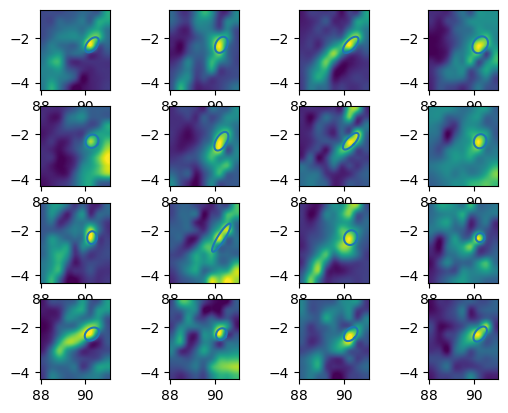
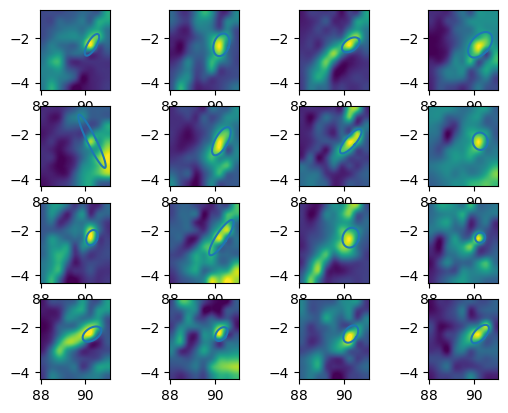
Smaller images

diff --git a/conditional_events.py b/conditional_events.py
@@ -156,7 +156,7 @@ for i in range(16):
     axe = ax[int(i / 4)][i % 4]
     e = events[i]
     lx, ly, theta = fit_ellipse(
-        e.sel(time=0), R, Z, size_penalty_factor=0, aspect_ratio_penalty_factor=0
+        e.sel(time=0), R, Z, size_penalty_factor=5, aspect_ratio_penalty_factor=1
     )
     im = axe.imshow(e.sel(time=0).frames, origin="lower", interpolation="spline16")
     alphas = np.linspace(0, 2 * np.pi, 200)
@@ -166,7 +166,7 @@ for i in range(16):
     axe.plot(elipsx, elipsy)
     im.set_extent((rmin, rmax, zmin, zmax))
 
-plt.savefig("event_fits.png", bbox_inches="tight")
+plt.savefig("event_fits_size_aspect_penalty.png", bbox_inches="tight")
 quit()
 
 for e in events:

diff --git a/2d_conditional_averaging/slides.md b/2d_conditional_averaging/slides.md
@@ -203,7 +203,7 @@ transition: slide-left
 
 ## Results
 
-# ![](https://github.com/uit-cosmo/phantom/blob/main/presentation/event_fits.pdf?raw=true){.w-140.mx-auto}
+# ![](https://github.com/uit-cosmo/phantom/blob/main/presentation/event_fits.png?raw=true){.w-140.mx-auto}
 
 ---
 transition: slide-left
@@ -228,7 +228,7 @@ transition: slide-left
 ## Results with size penalty
 $P_c = 10$
 
-![](https://github.com/uit-cosmo/phantom/blob/main/presentation/event_fits_size_aspect_penalty.png?raw=true){.w-140.mx-auto}
+![](https://github.com/uit-cosmo/phantom/blob/main/presentation/event_fits_size_penalty.png?raw=true){.w-140.mx-auto}
 
 ---
 transition: slide-left
